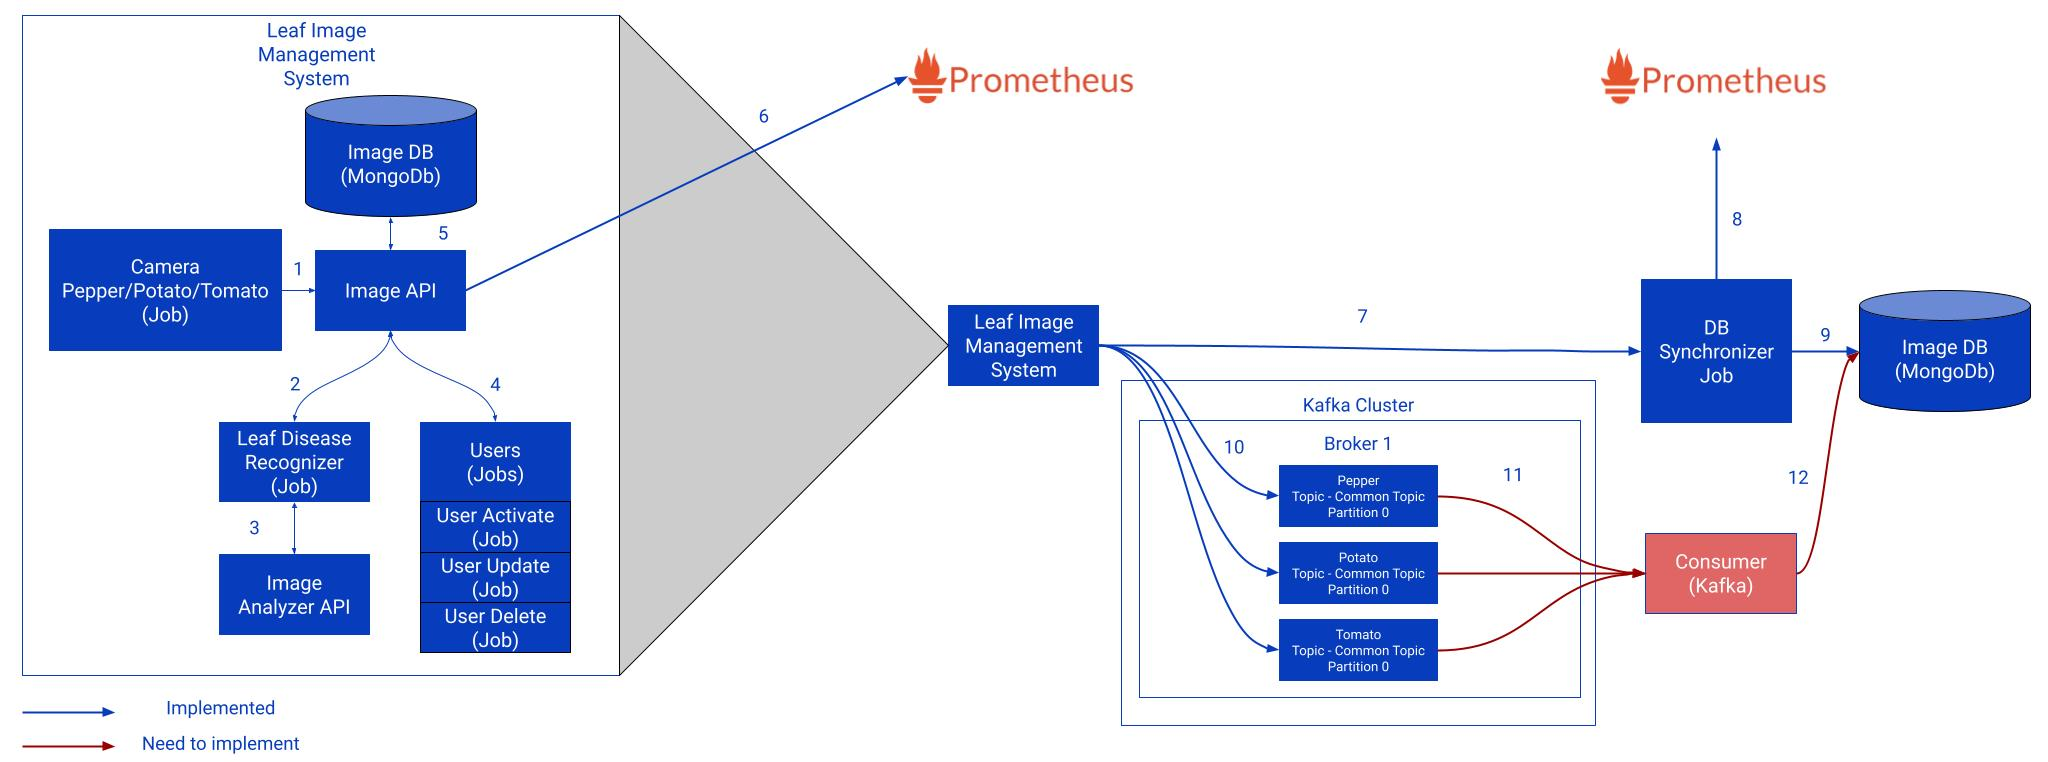
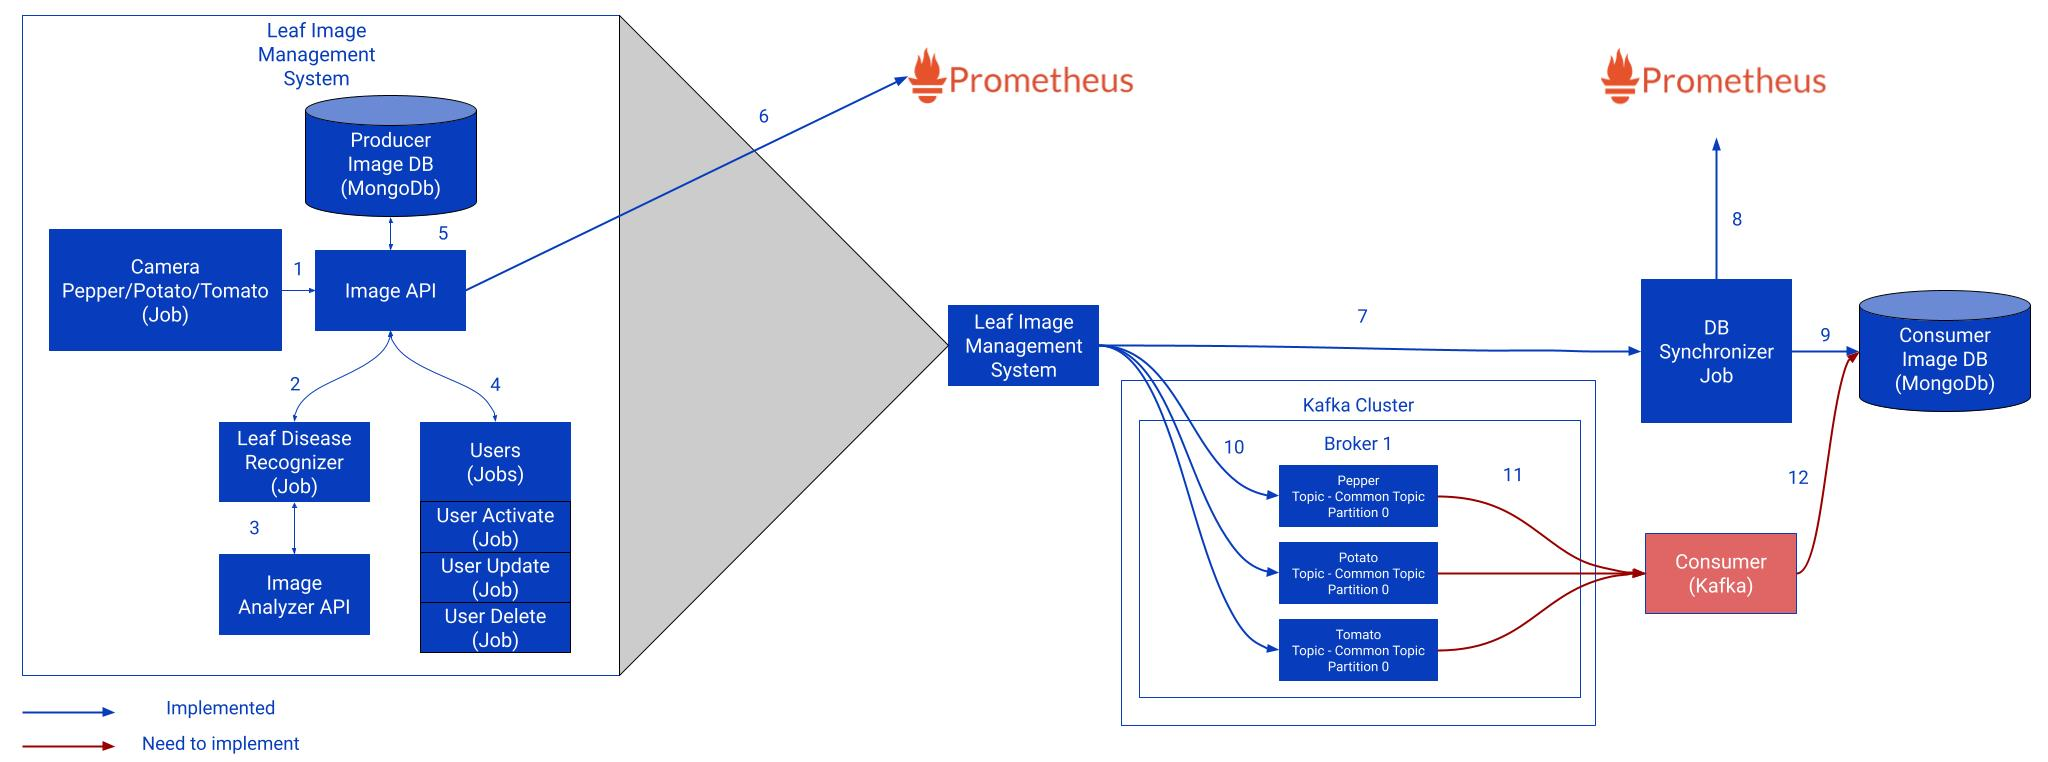
Continued to add information for README.md

Changed region(s): [[0.9062, 0.4226, 1.0, 0.5131], [0.1562, 0.1811, 0.2188, 0.2717]]

diff --git a/README.md b/README.md
@@ -22,23 +22,69 @@ This API performs CRUD operations for images using MongoDB and pushes changes to
 
 ### Image Analyzer API
 
-located: basic_services/api/image_analizer_api
+#### Description
+
+This API contains ML models that analyze leaf diseases based on different image representations.
+
+#### Kubernetes Configuration Files:
+
+[basic_services/api/image_analizer_api](basic_services/api/image_analizer_api)
 
 ## Jobs
 
 ### Camera
 
+#### Description
+
+This job automatically generates and uploads new pepper, potato, or tomato photos every 30 seconds.
+
+#### Kubernetes Configuration Files:
+
+[basic_services/jobs/inner_jobs/camera](basic_services/jobs/inner_jobs/camera)
+
 ### Leaf Disease Recognizer
+
+#### Description
+
+This job identifies diseases for one image every 100 seconds.
+
+#### Kubernetes Configuration Files:
+
+[basic_services/jobs/inner_jobs/leaf_disease_recognizer](basic_services/jobs/inner_jobs/leaf_disease_recognizer)
 
 ### Users
 
+#### Description
+
+This job continuously updates information and can also activate and delete images.
+
+#### Kubernetes Configuration Files:
+
 ### Db Synchronizer
+
+#### Description
+
+This job synchronizes the producer and consumer databases using a batch approach.
+
+#### Kubernetes Configuration Files:
 
 ## Databases
 
+### Producer DB
+
+#### Description
+
+This database stores images along with their related information.
+
+#### Kubernetes Configuration Files:
+
+[basic_services/jobs/outer_jobs/db_synchronizer](basic_services/jobs/outer_jobs/db_synchronizer)
+
 ### Consumer Db
 
-### Producer DB
+#### Description
+
+#### Kubernetes Configuration Files:
 
 # Deployment Instructions
 
@@ -46,24 +92,17 @@ located: basic_services/api/image_analizer_api
 
 1. Install minikube
 2. Start minikube
-3. Run the following script: basic_services/start.stg.sh
+3. Run the following script:
+
 <pre>
-
-```
 sh start.stg.sh
-```
-
 </pre>
 
 4. Wait 2-3 minutes until all pods are running and the all the data has been loaded into the databases
 5. You can expose the ports of all services using the foolowing script: open.stg.sh
 
 <pre>
-
-```
 sh open.stg.sh
-```
-
 </pre>
 
 Each service has been deployed with ClusterIP type:
@@ -85,14 +124,10 @@ Each service has been deployed with ClusterIP type:
 
 Locally:
 
-1. Run the following script: basic_services/stop.stg.sh:
+1. Run the following script:
 
 <pre>
-
-```
 sh stop.stg.sh
-```
-
 </pre>
 
 Describe stg/prod
